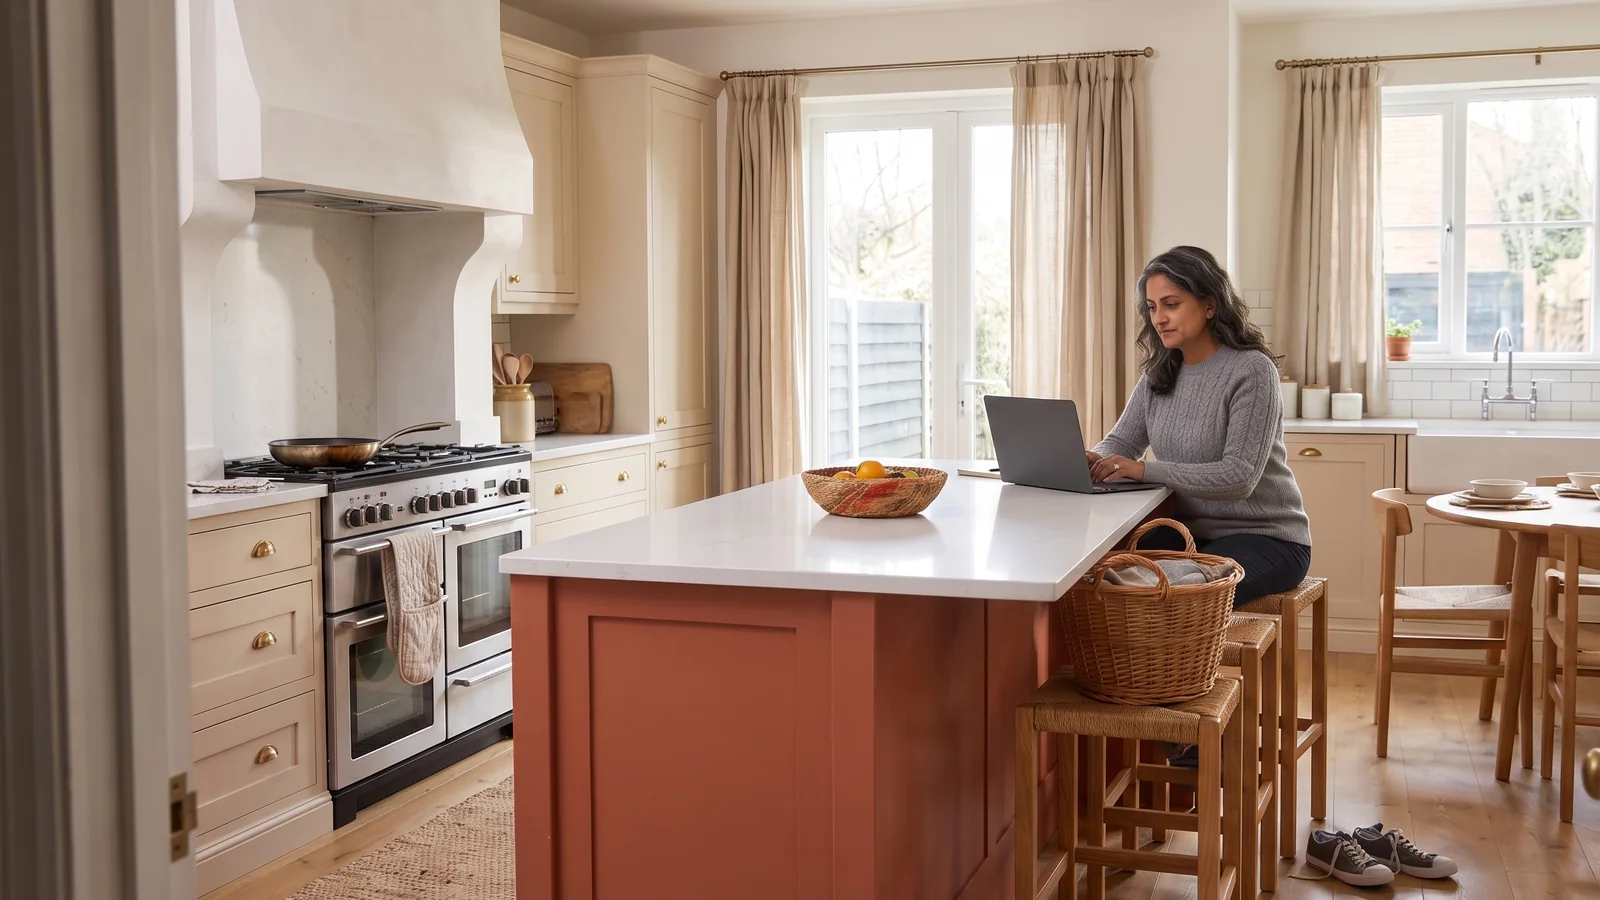
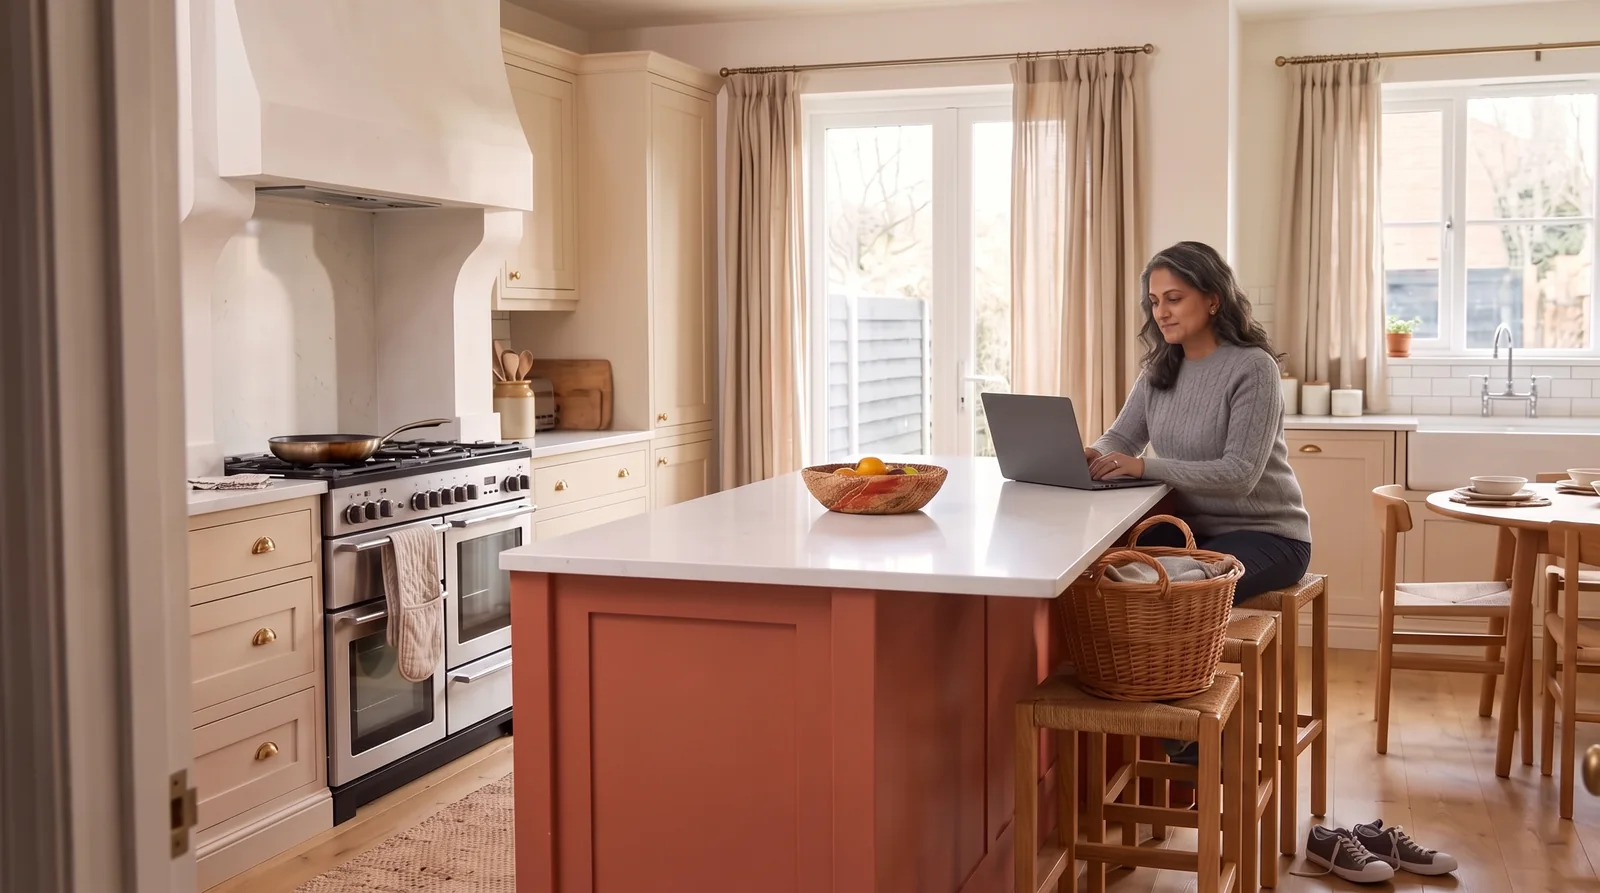
Christmas extra money cover: same woman as the body frames

diff --git a/blog-pipeline/photos-completed/extra-money-for-christmas.md b/blog-pipeline/photos-completed/extra-money-for-christmas.md
@@ -4,7 +4,7 @@ post_title: "I Need to Make Extra Money for Christmas. What Are My Real Options?
 slug: extra-money-for-christmas
 status: done
 cameron_processed: false
-note: "BUILDER TRACK, shot on Higgsfield nano-banana-pro at native 2752x1536 and delivered at 1600px webp. EVERY FRAME WAS WALKED THROUGH ALL 14 CHECKS IN PHOTO-CLAUDE-RULES.md, written out frame by frame in chat, before committing. HARD FTC RULE HELD: no money, no shopping bags, no gifts, no price tags, no clocks, no screens, no logos, no phones in any frame. ONE woman across the set: South Asian, about 54, shoulder-length wavy dark hair with grey streaks, gold studs, heather grey cable-knit jumper and dark jeans. THE ROOM is a new kitchen: deep cranberry red island with brass knobs, oak worktop, cream shaker cupboards with brass knobs, deep green square tile splashback, a tall window with full-length natural linen curtains, worktop crowded with a bowl of clementines and pinecones, a crock of wooden spoons, rosemary in a pot, a loaf on a bread board, a striped tea towel. Hero is her on a rust velvet chair at the island typing on a matte charcoal laptop seen only from the back, plain lid with no logo, a closed plain notebook beside her, calm and smiling. Villain is the same kitchen late at night with nobody in it: one small lamp on, curtains half drawn over black glass, the laptop closed, the chair pushed back at an angle. The cold mug in the brief was left out because mugs fail the checklist. Turning point has her closing the laptop with one hand and looking out of the window, shoulders down, settled. BELONGING IS A NEW SETTING: two clearly different women in their fifties talking between rows of fir trees at a cut your own Christmas tree farm, hands in their coat pockets, the second woman about 57 with a silver pixie cut and a green quilted jacket. Freedom is the warmest: her walking a frosted meadow path by birch trees and a dry stone wall at golden hour, coat open over the same jumper, hands free, laughing. Hero picked from two options; the other showed the laptop screen face on and an open notebook with writing. Turning point and belonging given a gentle warm grade so the light ramp measures villain 0.83, hero 1.35, turning point 1.43, belonging 1.47, freedom 1.59. KITCHEN RESHOT 2026-10-07 under the new check 15 (big real kitchen with an oven, same cupboards every frame): hero, villain and turning point moved out of the small cranberry island kitchen into a big lived-in family kitchen: cream shaker cabinets with brass knobs and cup pulls, a terracotta clay island with a white quartz top and rush seat oak stools, a white plaster hood over a stainless range with oven doors, a farmhouse sink, glass garden doors and a window with floor-length oatmeal linen curtains on brass rods, a round oak breakfast table, real mess (a pan on the range, an oven glove, a laundry basket on a stool, sneakers on the floor). Same woman and jumper. Hero: her at the island on the laptop seen only from behind. Villain: the same kitchen at night, one pendant on, laptop closed, a stool pulled out. Turning point: closing the laptop and looking out at the garden. Fixed: the sink window had only a blind, and a mug, two glasses of juice and books were in frame, all fixed by edit; a labelled soap bottle at the edge was cropped off. Belonging and freedom are outdoors and unchanged. Ramp now villain 0.83, hero 1.33, turning point 1.41, belonging 1.46, freedom 1.59."
+note: "BUILDER TRACK, shot on Higgsfield nano-banana-pro at native 2752x1536 and delivered at 1600px webp. EVERY FRAME WAS WALKED THROUGH ALL 14 CHECKS IN PHOTO-CLAUDE-RULES.md, written out frame by frame in chat, before committing. HARD FTC RULE HELD: no money, no shopping bags, no gifts, no price tags, no clocks, no screens, no logos, no phones in any frame. ONE woman across the set: South Asian, about 54, shoulder-length wavy dark hair with grey streaks, gold studs, heather grey cable-knit jumper and dark jeans. THE ROOM is a new kitchen: deep cranberry red island with brass knobs, oak worktop, cream shaker cupboards with brass knobs, deep green square tile splashback, a tall window with full-length natural linen curtains, worktop crowded with a bowl of clementines and pinecones, a crock of wooden spoons, rosemary in a pot, a loaf on a bread board, a striped tea towel. Hero is her on a rust velvet chair at the island typing on a matte charcoal laptop seen only from the back, plain lid with no logo, a closed plain notebook beside her, calm and smiling. Villain is the same kitchen late at night with nobody in it: one small lamp on, curtains half drawn over black glass, the laptop closed, the chair pushed back at an angle. The cold mug in the brief was left out because mugs fail the checklist. Turning point has her closing the laptop with one hand and looking out of the window, shoulders down, settled. BELONGING IS A NEW SETTING: two clearly different women in their fifties talking between rows of fir trees at a cut your own Christmas tree farm, hands in their coat pockets, the second woman about 57 with a silver pixie cut and a green quilted jacket. Freedom is the warmest: her walking a frosted meadow path by birch trees and a dry stone wall at golden hour, coat open over the same jumper, hands free, laughing. Hero picked from two options; the other showed the laptop screen face on and an open notebook with writing. Turning point and belonging given a gentle warm grade so the light ramp measures villain 0.83, hero 1.35, turning point 1.43, belonging 1.47, freedom 1.59. KITCHEN RESHOT 2026-10-07 under the new check 15 (big real kitchen with an oven, same cupboards every frame): hero, villain and turning point moved out of the small cranberry island kitchen into a big lived-in family kitchen: cream shaker cabinets with brass knobs and cup pulls, a terracotta clay island with a white quartz top and rush seat oak stools, a white plaster hood over a stainless range with oven doors, a farmhouse sink, glass garden doors and a window with floor-length oatmeal linen curtains on brass rods, a round oak breakfast table, real mess (a pan on the range, an oven glove, a laundry basket on a stool, sneakers on the floor). Same woman and jumper. Hero: her at the island on the laptop seen only from behind. Villain: the same kitchen at night, one pendant on, laptop closed, a stool pulled out. Turning point: closing the laptop and looking out at the garden. Fixed: the sink window had only a blind, and a mug, two glasses of juice and books were in frame, all fixed by edit; a labelled soap bottle at the edge was cropped off. Belonging and freedom are outdoors and unchanged. Ramp now villain 0.83, hero 1.33, turning point 1.41, belonging 1.46, freedom 1.59. Cover fixed 2026-10-17 at the same path for RESHOOT-extramoneyf-hero: the cover face and hair did not match the body frames, so the cover was edited from itself with the turning point face as reference; it now shows the same woman, fuller shoulder length wavy dark hair with grey streaks, gold studs, heather grey cable knit, typing at the terracotta island in the same kitchen, laptop seen only from the back."
 ---
 
 ### extramoneyf-hero-v1

diff --git a/blog-pipeline/photo-requests/RESHOOT-extramoneyf-hero.md b/blog-pipeline/photo-requests/RESHOOT-extramoneyf-hero.md
@@ -5,7 +5,8 @@ slug: extra-money-for-christmas
 track: builder
 queue_file: blog-pipeline/queue/extra-money-for-christmas.md
 beats: 1
-status: open
+status: done
+closed: 2026-10-17
 priority: high
 replaces: blog-images/extramoneyf-hero-v1.webp (the COVER only)
 style: "Same set rules as photos-completed/extra-money-for-christmas.md: REAL-LIFE standard, documentary realism, all 15 checks in PHOTO-CLAUDE-RULES.md, check 15 big real family kitchen. Continuity: the SAME woman and the SAME kitchen as the body frames."
@@ -45,3 +46,6 @@ The four body frames are FINE and must not be touched:
   **150 KB or less** (the set's other images are already in a re-encode request). Same path means
   the live post and its share card update with no republish.
 - Requests only from this side: Photo Claude renders, checks and writes photos-completed.
+
+## Closed 2026-10-17 (Photo Claude)
+Cover re-made at the same path with the body frames woman, under 150,000 bytes. The live post and share card pick it up with no republish.
